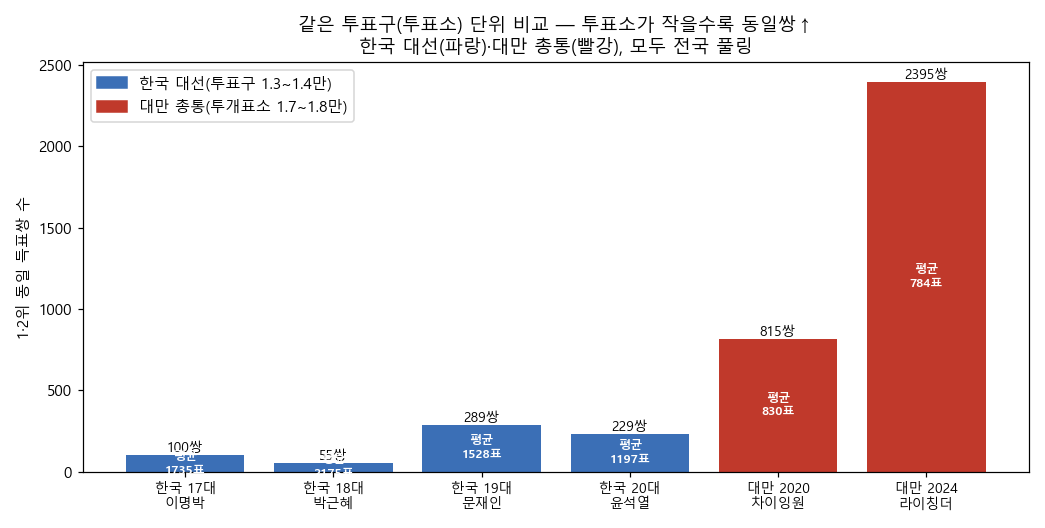
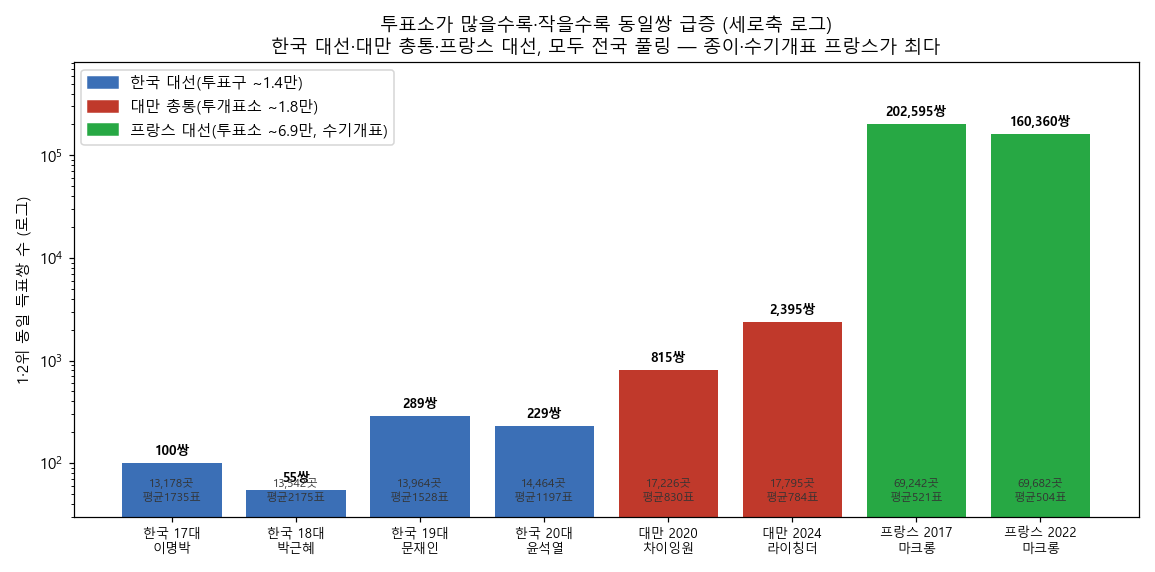
프랑스 대선(2017·2022) 추가 + 가설 명시·검증
- §6에 프랑스(투표소 ~7만, 종이·수기개표) 추가: 1·2위 동일쌍 16만·20만 쌍, 모두 우연 기대 이하
- §1 가설(투표소 많을수록·작을수록·압승일수록 동일쌍↑) 명시, §9에서 데이터로 종합 확인
- fig_tw_vs_kr를 한국·대만·프랑스 3국 로그스케일로 개편
- 동일쌍 엑셀에 2026 본투표·프랑스(연도별 그룹) 시트 추가
- 수치 전수 감사: 한국 본투표 투표소 단위 표기 정정, 인용 수치 원본 대조 완료

Changed region(s): [[0.0, 0.0303, 1.0, 0.9697]]

diff --git a/fr_analyze.py b/fr_analyze.py
@@ -1,0 +1,51 @@
+# -*- coding: utf-8 -*-
+"""프랑스 대선 1차투표(투표소별) 1·2위 동일쌍 분석 (2022·2017). 내무부 공식 burvot 파일."""
+import sys, json, numpy as np
+from collections import Counter
+sys.stdout.reconfigure(encoding='utf-8')
+rng = np.random.default_rng(20220410)
+
+def C2(n): return n * (n - 1) // 2
+def pc(vals):
+    c = Counter(vals); return sum(C2(n) for n in c.values() if n >= 2)
+def t2(v): sv = sorted(v, reverse=True); return (sv[0], sv[1])
+
+# 공식 1차 득표율(검증용)
+REAL = {'2022': {'MACRON': 27.85, 'LE PEN': 23.15, 'MÉLENCHON': 21.95},
+        '2017': {'MACRON': 24.01, 'LE PEN': 21.30, 'FILLON': 20.01, 'MÉLENCHON': 19.58}}
+ELECTIONS = [('2022', 'data/fr_presid2022_t1.txt', 12), ('2017', 'data/fr_presid2017_t1.txt', 11)]
+out = {}
+for yr, fn, NC in ELECTIONS:
+    txt = open(fn, encoding='cp1252').read().splitlines()
+    V = []; names = None
+    for line in txt[1:]:
+        p = line.split(';')
+        if len(p) < 25 + 7 * (NC - 1) + 1: continue
+        try: v = [int(p[25 + 7 * i]) for i in range(NC)]
+        except ValueError: continue
+        V.append(v)
+        if names is None: names = [p[23 + 7 * i] for i in range(NC)]
+    N = len(V); arr = np.array(V); tot = arr.sum(); sh = dict(zip(names, arr.sum(0) / tot * 100))
+    # 검증
+    okv = all(abs(sh[k] - val) < 0.05 for k, val in REAL[yr].items())
+    print(f'\n=== 프랑스 {yr} 1차 ===  투표소 {N:,}개, 후보 {NC}명, 득표율검증 {"OK" if okv else "FAIL"}')
+    for k, val in REAL[yr].items(): print(f'   {k}: 파싱 {sh[k]:.2f}% / 실제 {val}%')
+    # 동일쌍
+    tuples = [t2(v) for v in V]; obs = pc(tuples)
+    ngroups = sum(1 for n in Counter(tuples).values() if n >= 2)
+    sizes = arr.sum(1); p = arr.sum(0) / tot; sizemap = Counter(int(s) for s in sizes)
+    B = 200; sims = np.zeros(B, int)
+    for b in range(B):
+        pool = []
+        for n, cnt in sizemap.items():
+            if n <= 0: continue
+            draws = rng.multinomial(n, p, size=cnt)
+            s2 = np.sort(draws, axis=1)[:, ::-1][:, :2]
+            pool.extend(map(tuple, s2.tolist()))
+        sims[b] = pc(pool)
+    e = sims.mean()
+    print(f'   1·2위 동일쌍: 관측 {obs:,}쌍 (그룹 {ngroups:,}) | 우연기대 {e:,.0f} (95% {np.percentile(sims,2.5):,.0f}~{np.percentile(sims,97.5):,.0f}) | 관측{"≤" if obs<=e else ">"}기대, p={(np.sum(sims>=obs)+1)/(B+1):.3f}')
+    out[yr] = {'N': N, 'candidates': NC, 'observed': obs, 'groups': ngroups,
+               'expected': float(e), 'exp_lo': float(np.percentile(sims, 2.5)), 'exp_hi': float(np.percentile(sims, 97.5))}
+json.dump(out, open('data/fr_result.json', 'w', encoding='utf-8'), ensure_ascii=False, indent=2)
+print('\nsaved data/fr_result.json')

diff --git a/tw_plot.py b/tw_plot.py
@@ -40,21 +40,27 @@ kr_order = [('한국 17대\n이명박', '제17대 (이명박·2007)'), ('한국 
 data = []
 for lab, key in kr_order:
     us = D[key]['units']; avg = sum(sum(u['votes']) for u in us) / len(us)
-    data.append((lab, p12(us), round(avg), True))
-data.append(('대만 2020\n차이잉원', tw20['obs'], round(tw20['avg']), False))
-data.append(('대만 2024\n라이칭더', tw24['obs'], round(tw24['avg']), False))
+    data.append((lab, p12(us), round(avg), 'kr', len(us)))
+data.append(('대만 2020\n차이잉원', tw20['obs'], round(tw20['avg']), 'tw', 17226))
+data.append(('대만 2024\n라이칭더', tw24['obs'], round(tw24['avg']), 'tw', 17795))
+FR = json.load(open('data/fr_result.json', encoding='utf-8'))
+data.append(('프랑스 2017\n마크롱', FR['2017']['observed'], FR['2017']['avg'], 'fr', FR['2017']['N']))
+data.append(('프랑스 2022\n마크롱', FR['2022']['observed'], FR['2022']['avg'], 'fr', FR['2022']['N']))
 labels = [d[0] for d in data]; col = [d[1] for d in data]
-colors = ['#3b6fb6' if d[3] else '#c0392b' for d in data]
-fig, ax = plt.subplots(figsize=(9.5, 4.8))
+CMAP = {'kr': '#3b6fb6', 'tw': '#c0392b', 'fr': '#27a844'}
+colors = [CMAP[d[3]] for d in data]
+fig, ax = plt.subplots(figsize=(10.5, 5.2))
 ax.bar(range(len(data)), col, color=colors)
+ax.set_yscale('log'); ax.set_ylim(30, max(col) * 4)
 for i, d in enumerate(data):
-    ax.text(i, d[1], f'{d[1]}쌍', ha='center', va='bottom', fontsize=9)
-    ax.text(i, d[1]/2, f'평균\n{d[2]}표', ha='center', va='center', fontsize=8, color='white', fontweight='bold')
-ax.set_xticks(range(len(data))); ax.set_xticklabels(labels, fontsize=9)
-ax.set_title('같은 투표구(투표소) 단위 비교 — 투표소가 작을수록 동일쌍↑\n한국 대선(파랑)·대만 총통(빨강), 모두 전국 풀링')
-ax.set_ylabel('1·2위 동일 득표쌍 수')
+    ax.text(i, d[1] * 1.12, f'{d[1]:,}쌍', ha='center', va='bottom', fontsize=8.5, fontweight='bold')
+    ax.text(i, 40, f'{d[4]:,}곳\n평균{d[2]}표', ha='center', va='bottom', fontsize=7.5, color='#333')
+ax.set_xticks(range(len(data))); ax.set_xticklabels(labels, fontsize=8.5)
+ax.set_title('투표소가 많을수록·작을수록 동일쌍 급증 (세로축 로그)\n한국 대선·대만 총통·프랑스 대선, 모두 전국 풀링 — 종이·수기개표 프랑스가 최다')
+ax.set_ylabel('1·2위 동일 득표쌍 수 (로그)')
 from matplotlib.patches import Patch
-ax.legend(handles=[Patch(color='#3b6fb6', label='한국 대선(투표구 1.3~1.4만)'),
-                   Patch(color='#c0392b', label='대만 총통(투개표소 1.7~1.8만)')])
+ax.legend(handles=[Patch(color='#3b6fb6', label='한국 대선(투표구 ~1.4만)'),
+                   Patch(color='#c0392b', label='대만 총통(투개표소 ~1.8만)'),
+                   Patch(color='#27a844', label='프랑스 대선(투표소 ~6.9만, 수기개표)')], loc='upper left')
 plt.tight_layout(); plt.savefig('figures/fig_tw_vs_kr.png'); plt.close()
 print('saved figures/fig_tw_vs_kr.png')

diff --git a/REPORT_FINAL.md b/REPORT_FINAL.md
@@ -1,7 +1,7 @@
 # 2026년 6·3 지방선거 "사전투표 동일 득표쌍" 부정선거 의혹 — 데이터로 끝까지 따져보기
 
 **작성일** 2026년 6월 10일
-**자료 출처** 중앙선거관리위원회 선거통계시스템 [info.nec.go.kr](https://info.nec.go.kr/) · 국가선거정보 개방포털 [data.nec.go.kr](http://data.nec.go.kr/) · 대만 중앙선거위원회 [db.cec.gov.tw](https://db.cec.gov.tw/)
+**자료 출처** 중앙선거관리위원회 선거통계시스템 [info.nec.go.kr](https://info.nec.go.kr/) · 국가선거정보 개방포털 [data.nec.go.kr](http://data.nec.go.kr/) · 대만 중앙선거위원회 [db.cec.gov.tw](https://db.cec.gov.tw/) · 프랑스 내무부 [data.gouv.fr](https://www.data.gouv.fr/)
 
 ---
 
@@ -18,6 +18,12 @@
 > - **질문 ②** 2026년만의, 또는 특정 진영만의 현상인가? → **5장**
 > - **질문 ③** 사전투표·전자개표 탓인가? 수기개표하면 깨끗한가? → **6장**
 
+그리고 이 글 전체는 다음 **가설**을 데이터로 검증하는 과정이기도 합니다.
+
+> **가설:** 동일 득표쌍은 조작의 흔적이 아니라, **① 투표소가 많을수록, ② 투표소 규모(투표인 수)가 작을수록, ③ 한 후보의 지지세가 압도적일수록** 산수적으로 더 자주 나타나는 자연 현상이다.
+
+세 조건이 동일쌍을 실제로 키우는지, 한국·대만·프랑스의 실제 데이터로 §4~6에서 하나씩 확인하고, §9에서 종합합니다.
+
 ---
 
 ## 2. 무엇을, 얼마나 조사했나
@@ -30,11 +36,13 @@
 | 2025 제21대 대선 | 읍면동 단위 7,108개 | 선관위 크롤링 |
 | 과거 대선 4회 (제17~20대) | 투표구(투표소) **55,148개** | 개방포털 전체파일 |
 | 대만 총통선거 2회 (2020·2024) | 투개표소 **35,021개** | 대만 선거DB 전체파일 |
+| 프랑스 대선 2회 (2017·2022) | 투표소 **138,924개** | 프랑스 내무부 공개데이터 |
 
-→ 합계 **10만 개가 넘는** 투표소·개표단위를 전수 분석했습니다(표본추출 없음).
+→ 합계 **24만 개가 넘는** 투표소·개표단위를 전수 분석했습니다(표본추출 없음).
 
 - **"사전투표 투표소"의 정의** = 각 읍면동의 **관내사전투표** 득표(읍면동당 1개소).
 - **비교용 대조군** = 같은 읍면동의 **선거일투표(본투표)**.
+- ※ 한국의 **본투표 물리적 투표소(투표구)는 1만 개를 크게 웃돕니다**(과거 대선 기준 약 1.3~1.4만). 다만 읍면동당 1개인 사전투표소와 **1:1로 대응시켜 비교**하려고 본투표도 읍면동 단위(3,758)로 합산했습니다. 더 잘게(투표구) 나누면 동일쌍은 줄지 않고 오히려 **늘어납니다**(가설 ①).
 - 2026 사전투표는 선거별 후보 **2~5명**, 총 **755만 표**, 투표소당 평균 **2,026표**(가장 작은 곳 46표 ~ 가장 큰 곳 10,080표)입니다.
 
 > **본투표·다른 선거·대만까지 받은 이유:** "6쌍이 많은가?"는 비교 기준이 있어야 답할 수 있습니다. 의혹을 받지 않는 본투표, 다른 선거, 그리고 "깨끗하다"고 거론되는 대만이 모두 좋은 비교군입니다.
@@ -143,7 +151,7 @@
 
 - **① "같은 조건"은 우연 일치를 줄이는 게 아니라 *늘립니다*.** 인천의 1쌍은 **송도1동 [3030, 1440, 61] vs 송도2동 [3030, 1440, 47]** — 총득표 4,531≈4,517의 **쌍둥이 신도시 동**입니다(3위는 61≠47로 다름, 완전 복제 아님). 광주·전남 4쌍도 모두 **호남 민주 압승 + 2위 득표 42~120표의 작은 면**이라 작은 숫자가 겹치기 쉬운 곳입니다. 시뮬레이션은 지역 평균 지지율을 써서 이 극단적 동질성을 **과소평가**하므로 p가 낮게 나옵니다.
 - **② 다중비교:** 16개 광역선거를 따로 검정하면 우연히 p<0.05가 평균 **0.8개**(16×0.05) 나옵니다. 광주·전남 한 곳이 딱 그 수준이라, 보정하면 유의하지 않습니다.
-- **③ 무엇보다, 이 정도는 실제 선거에서 늘 나옵니다.** 분쟁 없던 2022 대선엔 전남 한 곳에서만 **15쌍**, 경북 5쌍이 나왔습니다(§5-2). 게다가 **같은 시뮬레이션이 2022 투표구에선 오히려 과대예측**(전남 기대 21.5 > 관측 15)할 만큼, 모형 기대값은 단위마다 들쑥날쑥해 절대 잣대가 못 됩니다. 모형 확률보다 **실제 선거 기록**이 더 믿을 만하고, 거기서 보면 광주·전남 4쌍은 정상 범위입니다.
+- **③ 무엇보다, 이 정도는 실제 선거에서 늘 나옵니다.** 분쟁 없던 2022 대선엔 전남 한 곳에서만 **15쌍**, 경북 5쌍이 나왔습니다(§5-2). 게다가 **같은 시뮬레이션이 2022 투표구에선 오히려 과대예측**(전남 기대 약 21 > 관측 15)할 만큼, 모형 기대값은 단위마다 들쑥날쑥해 절대 잣대가 못 됩니다. 모형 확률보다 **실제 선거 기록**이 더 믿을 만하고, 거기서 보면 광주·전남 4쌍은 정상 범위입니다.
 
 > **질문① 답:** "6쌍"은 우연으로 기대되는 수준(약 5~11쌍)이며, 본투표·하위순위에서도 똑같이 나타납니다. **비정상이 아닙니다.**
 
@@ -213,7 +221,7 @@
 
 ---
 
-## 6. 질문③ — 사전투표·전자개표 탓인가? 수기개표하면 깨끗한가? (대만)
+## 6. 질문③ — 사전투표·전자개표 탓인가? 수기개표하면 깨끗한가? (대만·프랑스)
 
 부정선거론자들이 본받자고 하는 **대만**은 **사전투표가 없고 100% 수기개표**합니다. 그렇다면 동일쌍이 없어야 할 것입니다. 대만 중앙선거위 투개표소별 공식 데이터로 확인했습니다.
 
@@ -231,14 +239,25 @@
 | 한국 18대(박근혜) | 13,542 | 2,175 | 55 |
 | 한국 20대(윤석열) | 14,464 | 1,197 | 229 |
 | 대만 2024 | 17,795 | **784** | **2,395** |
+| 프랑스 2022 | **69,682** | **약 504** | **160,360** |
 
 ![투표소 단위 비교](figures/fig_tw_vs_kr.png)
 
-- **① 투표소가 더 많다**(대만 1.8만 vs 한국 1.4만) → 비교쌍 약 1.7배.
-- **② 투표소당 투표인이 더 적다**(평균 784표 vs 1,200~2,200표) → 1·2위가 작은 숫자라 겹치기 훨씬 쉬움(이쪽이 더 결정적).
+- **① 투표소가 더 많다**(대만 1.8만, 프랑스 7만 vs 한국 1.4만) → 비교쌍이 훨씬 많음.
+- **② 투표소당 투표인이 더 적다**(대만 784·프랑스 504 vs 한국 1,200~2,200표) → 1·2위가 작은 숫자라 겹치기 훨씬 쉬움(이쪽이 더 결정적).
 - 한국 안에서도 투표소가 더 작은 19·20대가 18대보다 동일쌍이 몇 배 많습니다.
 
-> **질문③ 답:** **사전투표를 없애고 수기개표로 바꿔도 동일쌍은 줄기는커녕 오히려 늘어납니다.** 동일쌍은 개표 방식의 문제가 아니라 산수의 문제입니다.
+**프랑스는 더 극적입니다.** 음모론자들이 대만과 함께 "깨끗한 선거"로 거론하는 프랑스 역시 **종이투표·100% 수기개표·사전투표 없음**입니다. 그런데 투표소(bureau de vote)가 **약 7만 개**로, 한국의 선거일 투표소(투표구 약 1.4만 개)의 **5배 가까이** 많고 평균 504표로 작습니다. 프랑스 내무부 공식 투표소별 데이터로 확인했습니다.
+
+| 프랑스 대선 1차 | 투표소 | 1·2위 동일쌍(관측) | 우연 기대 |
+|---|---|---|---|
+| 2022 (마크롱) | 69,682 | **160,360쌍** | 384,160 |
+| 2017 (마크롱) | 69,242 | **202,595쌍** | 579,970 |
+
+- 종이·수기개표 프랑스에 1·2위 동일쌍이 **16만~20만 쌍** — 한국(9쌍)·대만(2,395쌍)과 비교 불가하게 많습니다. **투표소가 가장 많고 가장 작기 때문**이지, 개표 방식이 깨끗해서가 아닙니다.
+- 그리고 이 수십만 쌍조차 **우연 기대값(38만~58만)보다 적습니다**(p=1.00) — 다른 모든 선거와 똑같은 패턴입니다.
+
+> **질문③ 답:** **사전투표를 없애고 종이·수기개표로 바꿔도 동일쌍은 줄기는커녕 오히려 폭증합니다**(대만 수천 쌍, 프랑스 수십만 쌍). 동일쌍은 개표 방식의 문제가 아니라 산수의 문제입니다.
 
 ---
 
@@ -246,7 +265,7 @@
 
 한 교실에 **23명**만 모여도 생일이 같은 두 사람이 있을 확률이 50%를 넘습니다. "특정 두 사람"이 아니라 "**아무나** 두 사람"을 찾기 때문입니다(비교쌍 253개).
 
-선거도 똑같습니다. 투표소 3,731곳 → 비교쌍 **696만**, 득표수의 실질 경우의 수 **약 144만** → **696만÷144만 ≈ 5**. 동일쌍 몇 개는 산수적으로 **반드시** 나옵니다. 투표소가 많을수록, 투표소가 작을수록 더 많이 나옵니다 — 그래서 대만(투표소 많고 작음)에 수천 쌍이 나오는 것입니다.
+선거도 똑같습니다. 투표소 3,731곳 → 비교쌍 **696만**, 득표수의 실질 경우의 수 **약 144만** → **696만÷144만 ≈ 5**. 동일쌍 몇 개는 산수적으로 **반드시** 나옵니다. 투표소가 많을수록, 투표소가 작을수록 더 많이 나옵니다 — 그래서 대만(수천 쌍)·프랑스(수십만 쌍)처럼 투표소가 많고 작은 나라에서 훨씬 많이 나오는 것입니다.
 
 ---
 
@@ -266,14 +285,24 @@
 
 1. **6쌍은 비정상이 아니다** — 우연 기대값(약 5~11쌍)과 같은 수준이고, 본투표·하위순위에서도 똑같이 나타난다. (4장)
 2. **2026년·특정 진영만의 현상이 아니다** — 2025 대선(사전 0쌍), 보수가 이긴 과거 대선, 양 진영 텃밭 모두에서 나타나며 늘 우연 이하. (5장)
-3. **개표 방식 탓이 아니다** — 사전투표 없고 100% 수기개표하는 대만에 오히려 수천 쌍. (6장)
+3. **개표 방식 탓이 아니다** — 사전투표 없고 100% 수기개표하는 대만에 수천 쌍, 프랑스에 **수십만 쌍**. (6장)
 4. **설령 조작이라 가정해도 동일쌍을 만들 이유가 없다** — 두 투표소 득표가 같든 다르든 총득표·당락은 동일하다. 표가 한 표도 늘지 않고, 일부러 맞추면 발각 위험만 커진다. 조작자라면 차라리 무작위로 만든다.
+
+**그리고 서두의 가설은 데이터로 그대로 확인되었습니다.** 동일 득표쌍은 다음 세 조건이 강할수록 더 많이 나타납니다.
+
+| 가설의 조건 | 데이터가 보여주는 것 |
+|---|---|
+| **① 투표소가 많을수록 ↑** | (선거일 기준) 한국 대선 100~289쌍(투표구 1.4만) < 대만 815~2,395쌍(1.8만) < **프랑스 16만~20만쌍(7만)** |
+| **② 투표소가 작을수록 ↑** | 투표소당 평균 득표가 작을수록 급증(한국 1,200~2,200 > 대만 784 > 프랑스 504표); 한국 9쌍은 전부 '크기 쌍둥이' 작은 투표소 |
+| **③ 한 후보가 압승일수록 ↑** | 호남(민주)·영남(보수)·전남(이재명 84%, 15쌍) 등 **압승 지역에 집중** — 압승하면 2위 이하 득표가 작아져 겹치기 쉬움 |
+
+즉 동일 득표쌍은 **이 세 가지 산수적 조건의 자연스러운 산물**이지 "끼워 맞춘 흔적"이 아닙니다. 거꾸로, 조작 가설로는 이 규칙성(왜 하필 작은 투표소에, 압승 지역에, 투표소 많은 나라에 더 많은지)을 설명하지 못합니다.
 
 | 의혹의 주장 | 검증 결과 |
 |---|---|
 | 동일 득표쌍이 존재한다 | ✔ 사실 |
 | 그 개수가 비정상적으로 많다 | ✘ 거짓 — 우연 기대값 이하 |
-| 사전투표/특정 진영/특정 개표방식 탓이다 | ✘ 거짓 — 본투표·타 선거·양 진영·수기개표 대만 모두 동일 |
+| 사전투표/특정 진영/특정 개표방식 탓이다 | ✘ 거짓 — 본투표·타 선거·양 진영·수기개표 대만·프랑스 모두 동일 |
 | 조작의 흔적이다 | ✘ 거짓 — 생일의 역설로 설명되고, 조작 이득도 없음 |
 
 **동일 득표쌍은 진영·시대·선거 종류·개표 방식을 가리지 않고 나타나는, 작은 투표소가 많을 때 반드시 생기는 자연스러운 통계 현상입니다.** 한국의 "6쌍"은 그 거대한 자연 현상의 지극히 작은 일부일 뿐입니다.